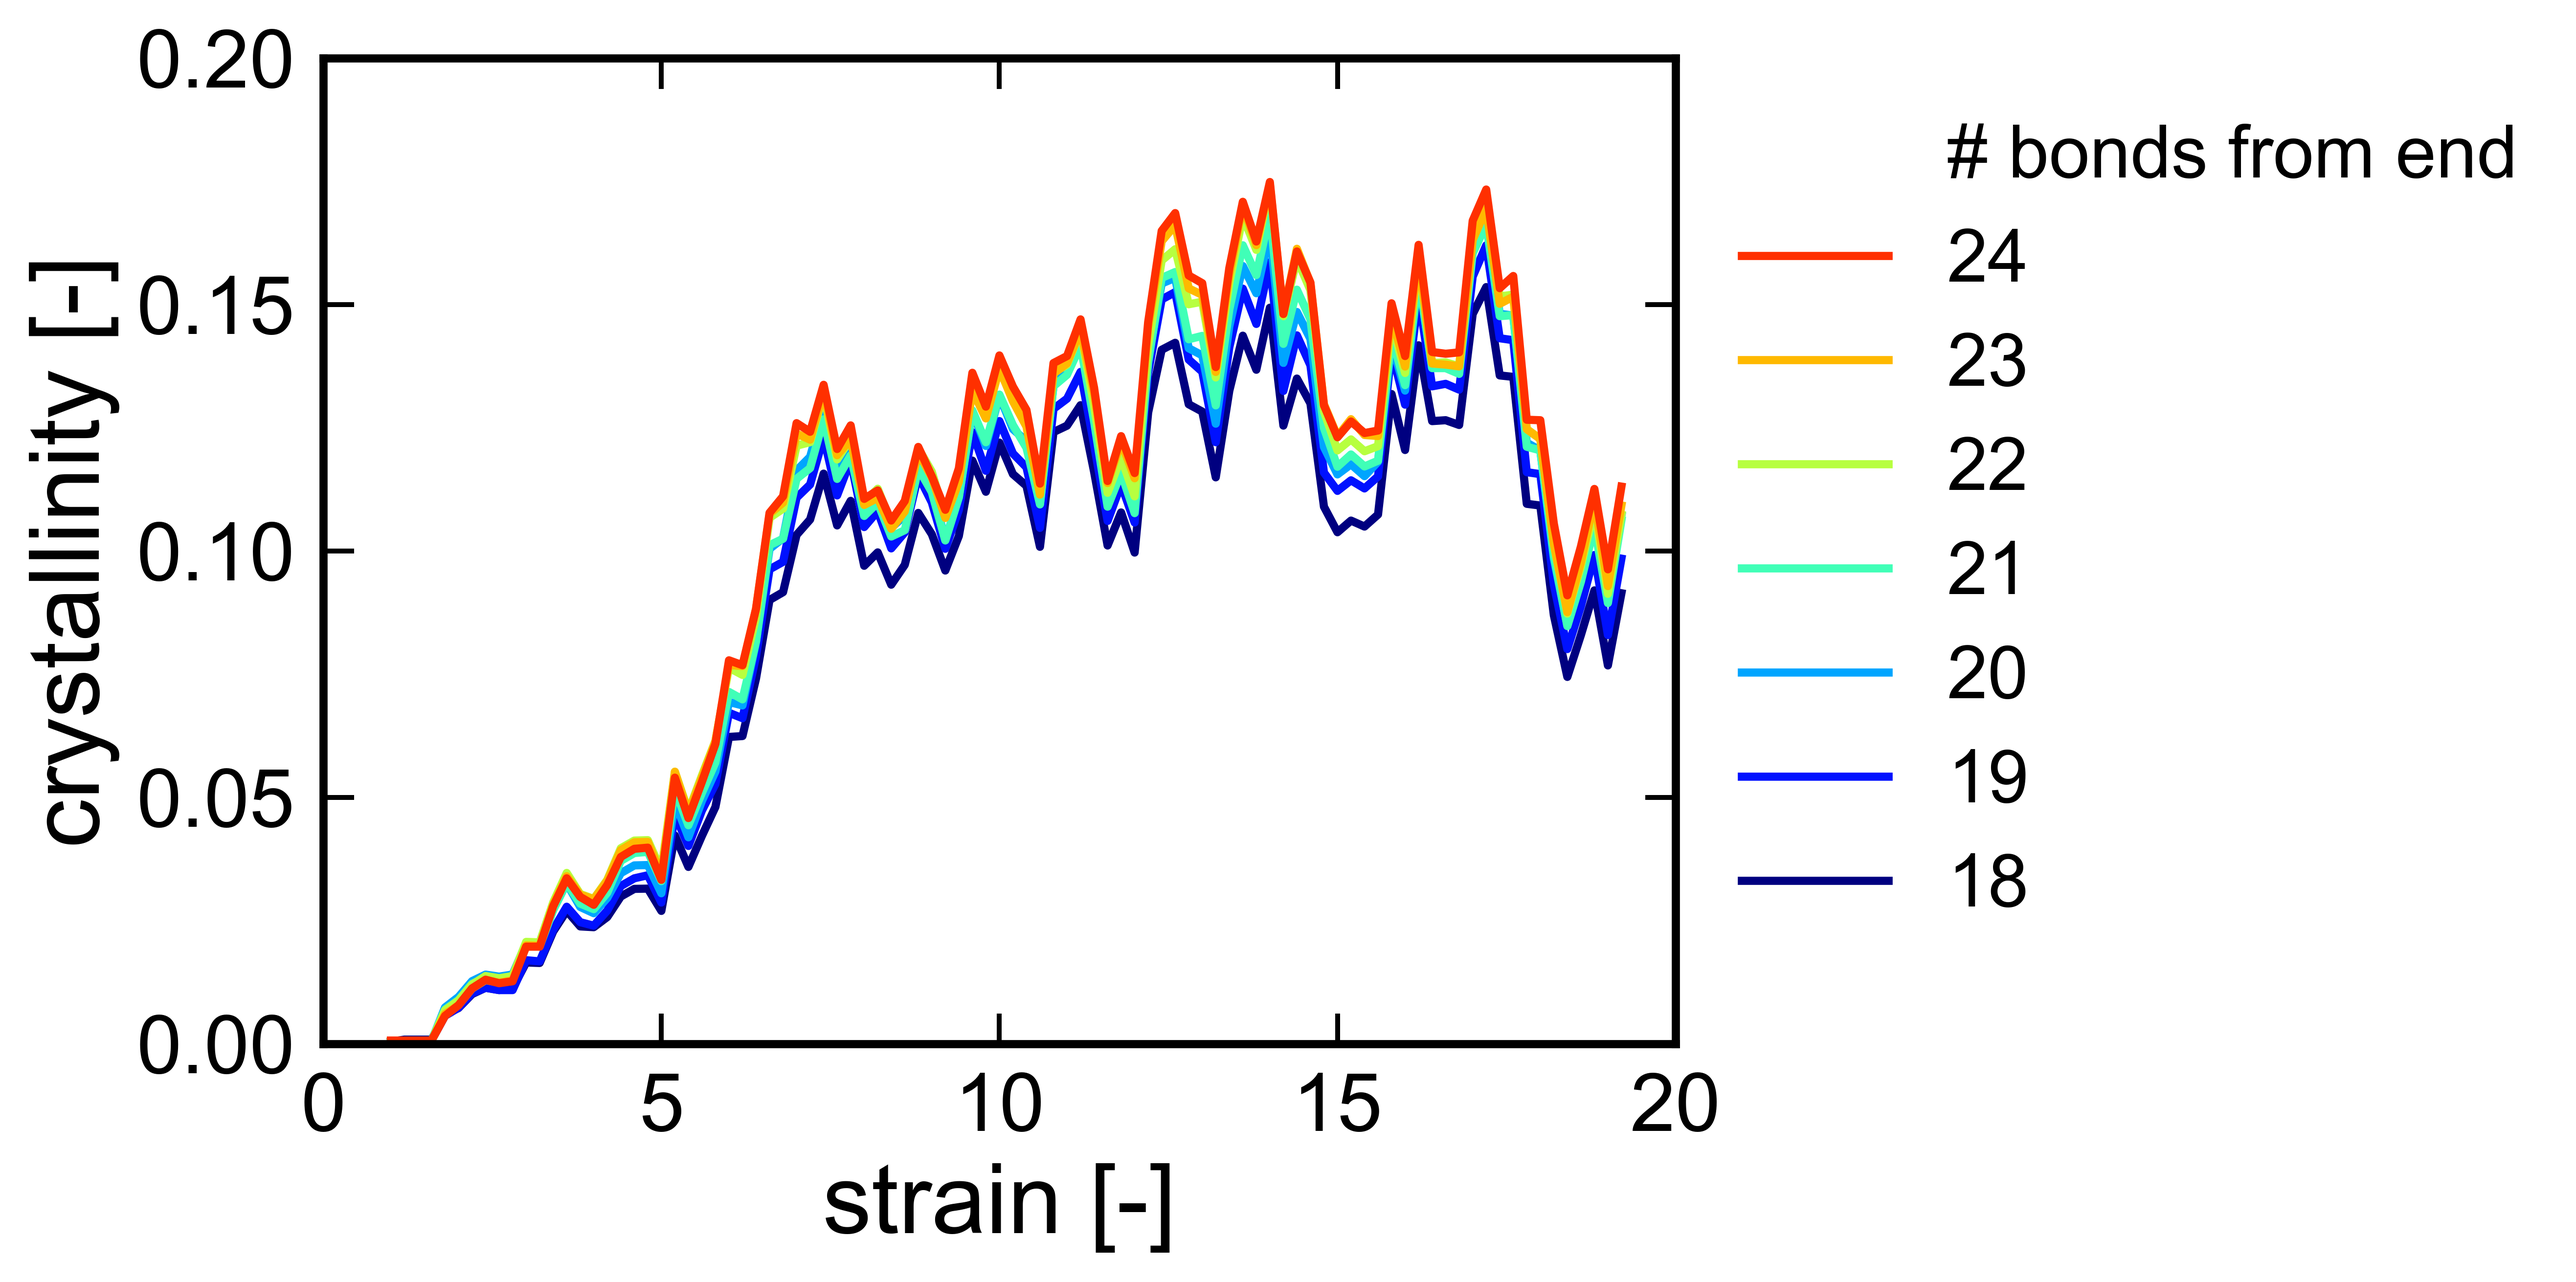
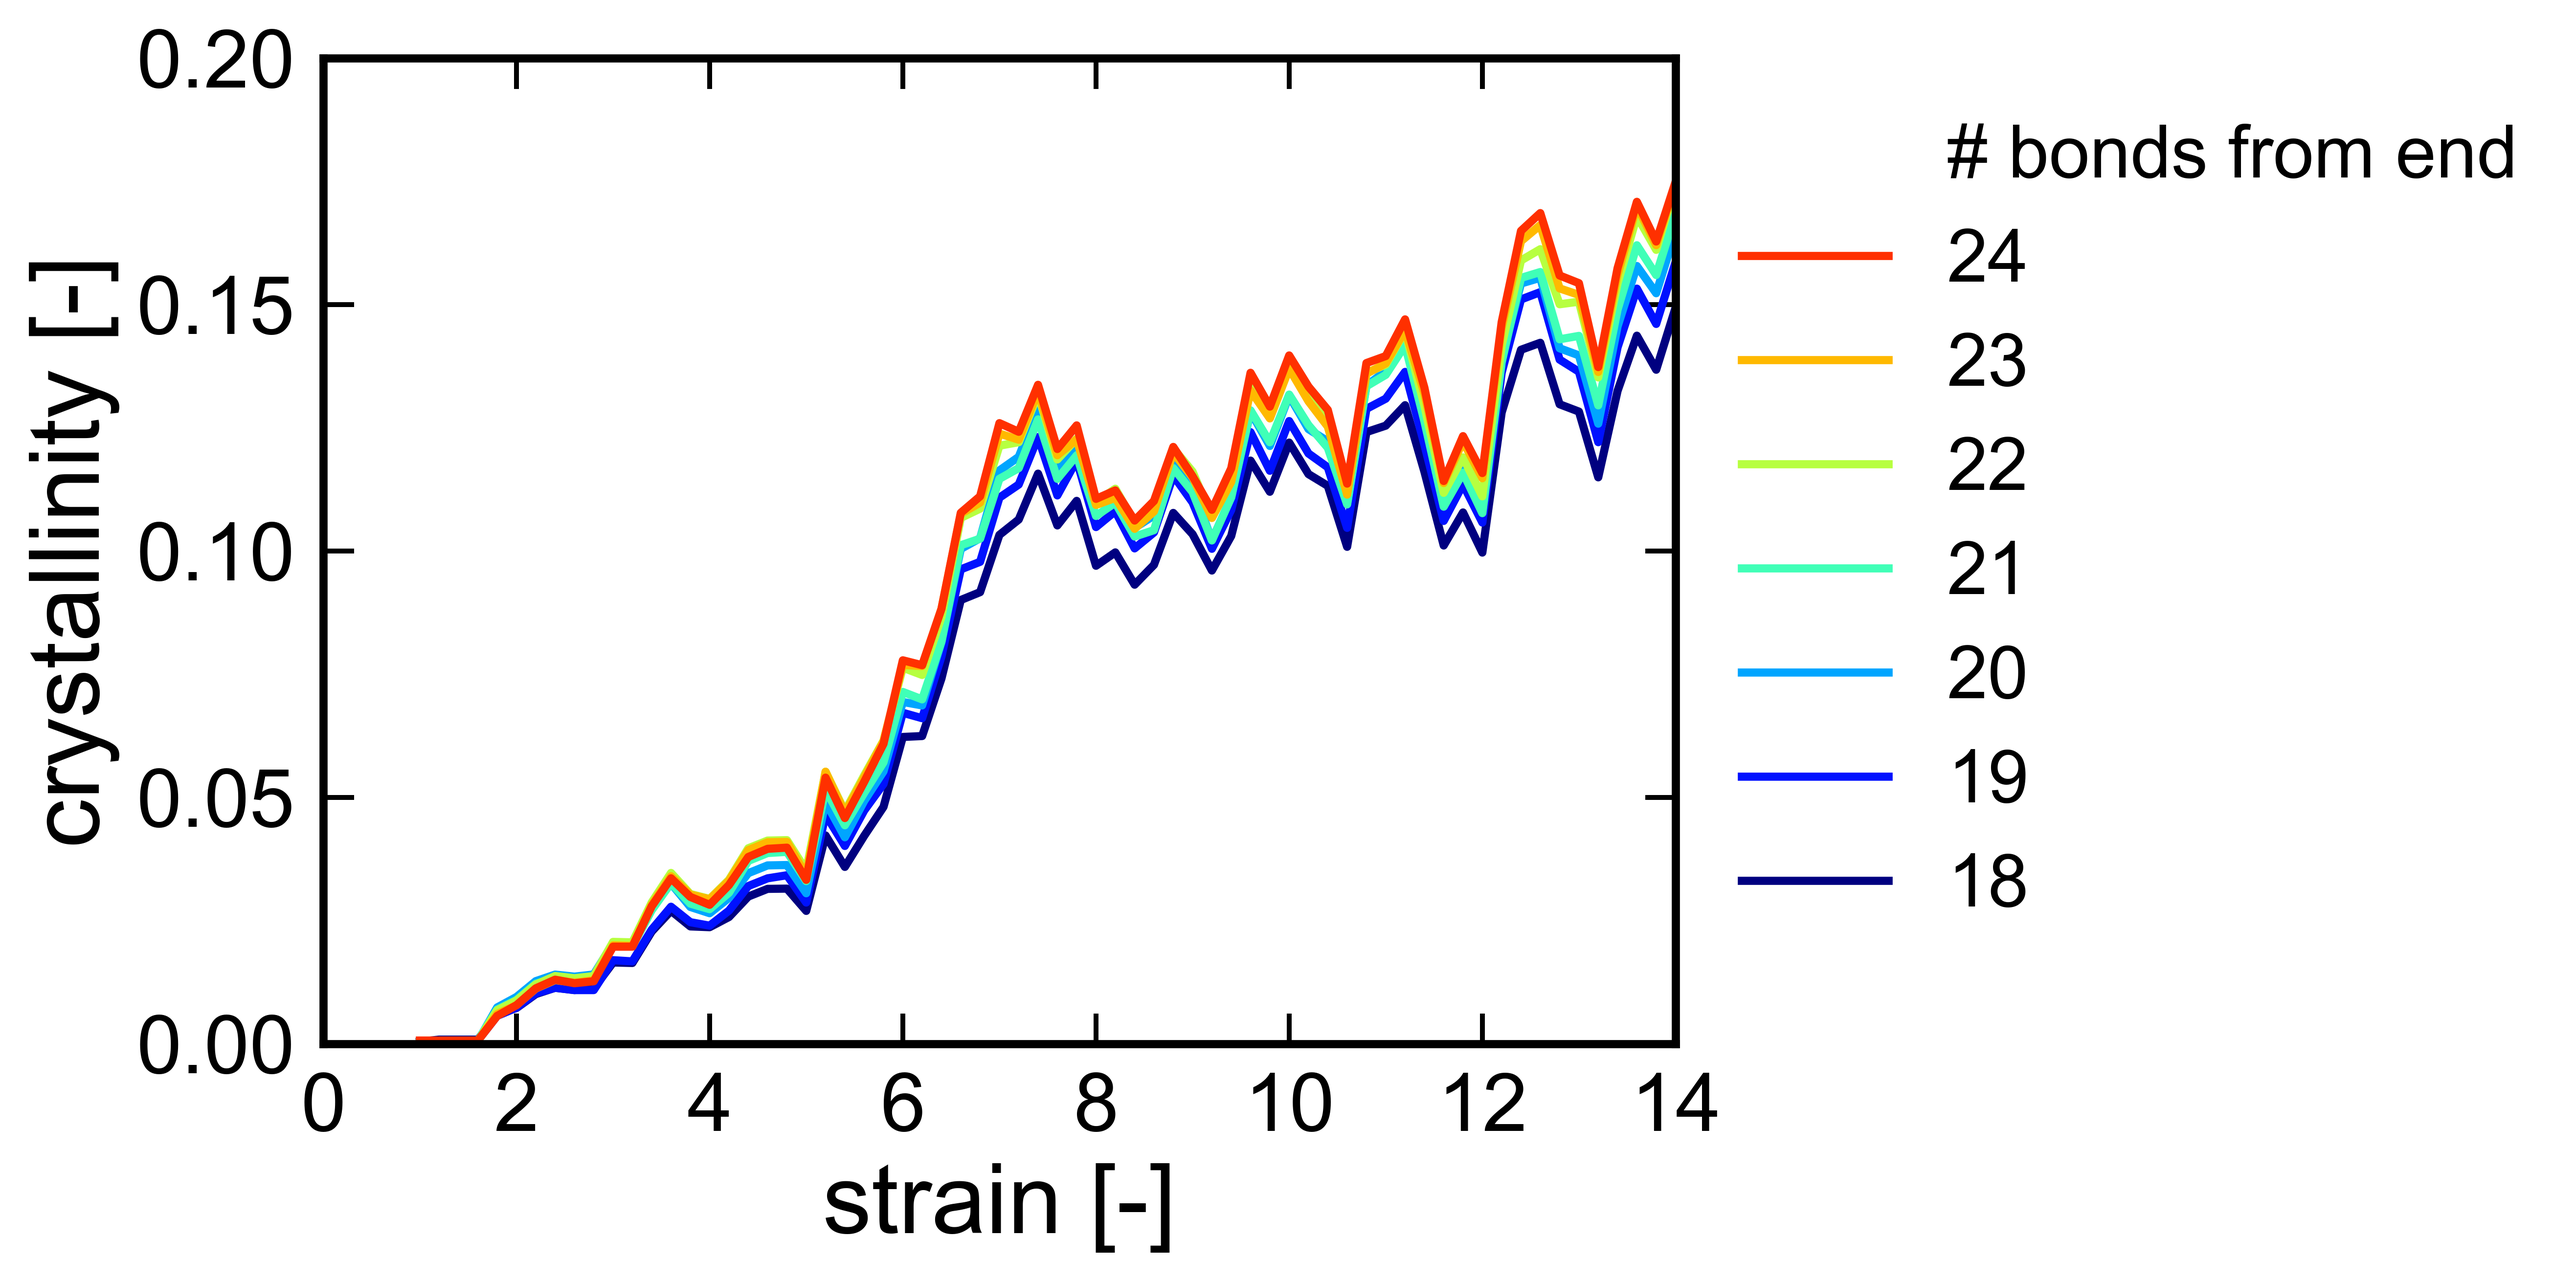
fix A add Legendre

diff --git a/crystallinity/crystallinity-A/ver2/plot.py b/crystallinity/crystallinity-A/ver2/plot.py
@@ -70,8 +70,8 @@ if __name__ == "__main__":
         111,
         xlabel="strain [-]",
         ylabel="crystallinity [-]",
-        xlim=(0, 20),
-        xticks=np.arange(0, 21, 5),
+        xlim=(0, 14),
+        xticks=np.arange(0, 15, 2),
         ylim=(0, 0.2),
         yticks=np.arange(0, 0.21, 0.05),
     )
@@ -87,5 +87,5 @@ if __name__ == "__main__":
         bbox_to_anchor=(1, 1), loc="upper left", handles=hans[::-1], labels=labs[::-1]
     )
     Dir = os.path.dirname(sys.argv[1])
-    fname = os.path.splitext(os.path.basename(sys.argv[1]))[0] + ".png"
+    fname = os.path.splitext(os.path.basename(sys.argv[1]))[0] + ".pdf"
     fig.savefig(os.path.join(Dir, fname), bbox_inches="tight")

diff --git a/crystallinity/crystallinity-A/ver2/crystallinity-A.cpp b/crystallinity/crystallinity-A/ver2/crystallinity-A.cpp
@@ -158,7 +158,8 @@ int main(int argc, char* argv[]){
             total_neighbor_stems[i] = idxes.size();
             for (int j = 0; j < idxes.size(); j++){
             //for (int j = 1; j < idxes.size(); j++){
-                int jj = idxes[j] / 27;
+                // int jj = idxes[j] / 27;
+                int jj = idxes[j] % num_stems;
                 stem_j = stem_vecs[jj];
                 if (lambdas[i] >= lath && lambdas[jj] >= lath){
                     double cos =
